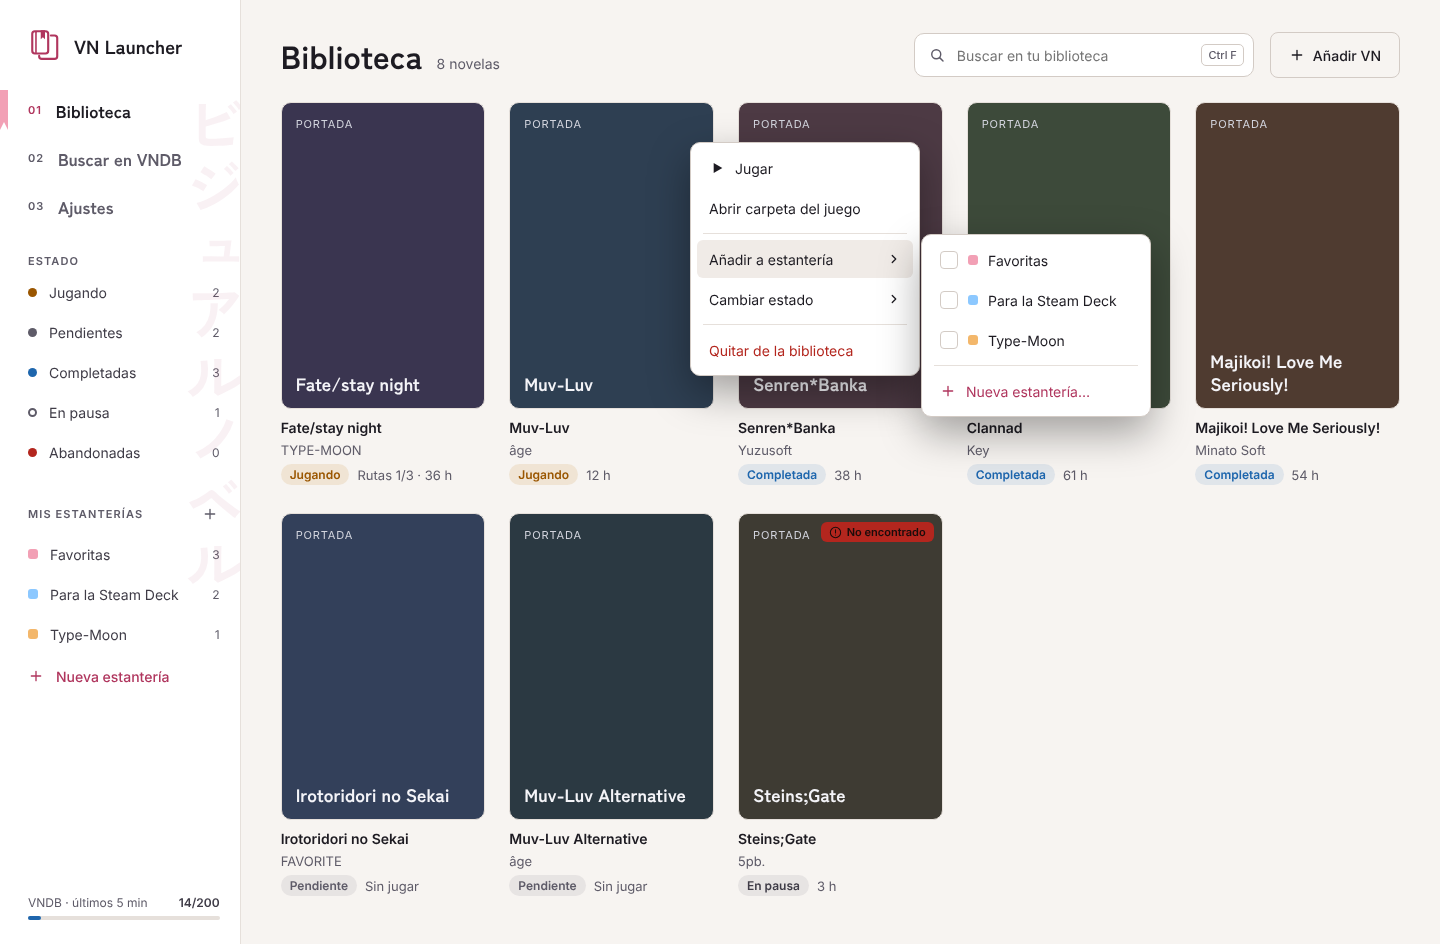
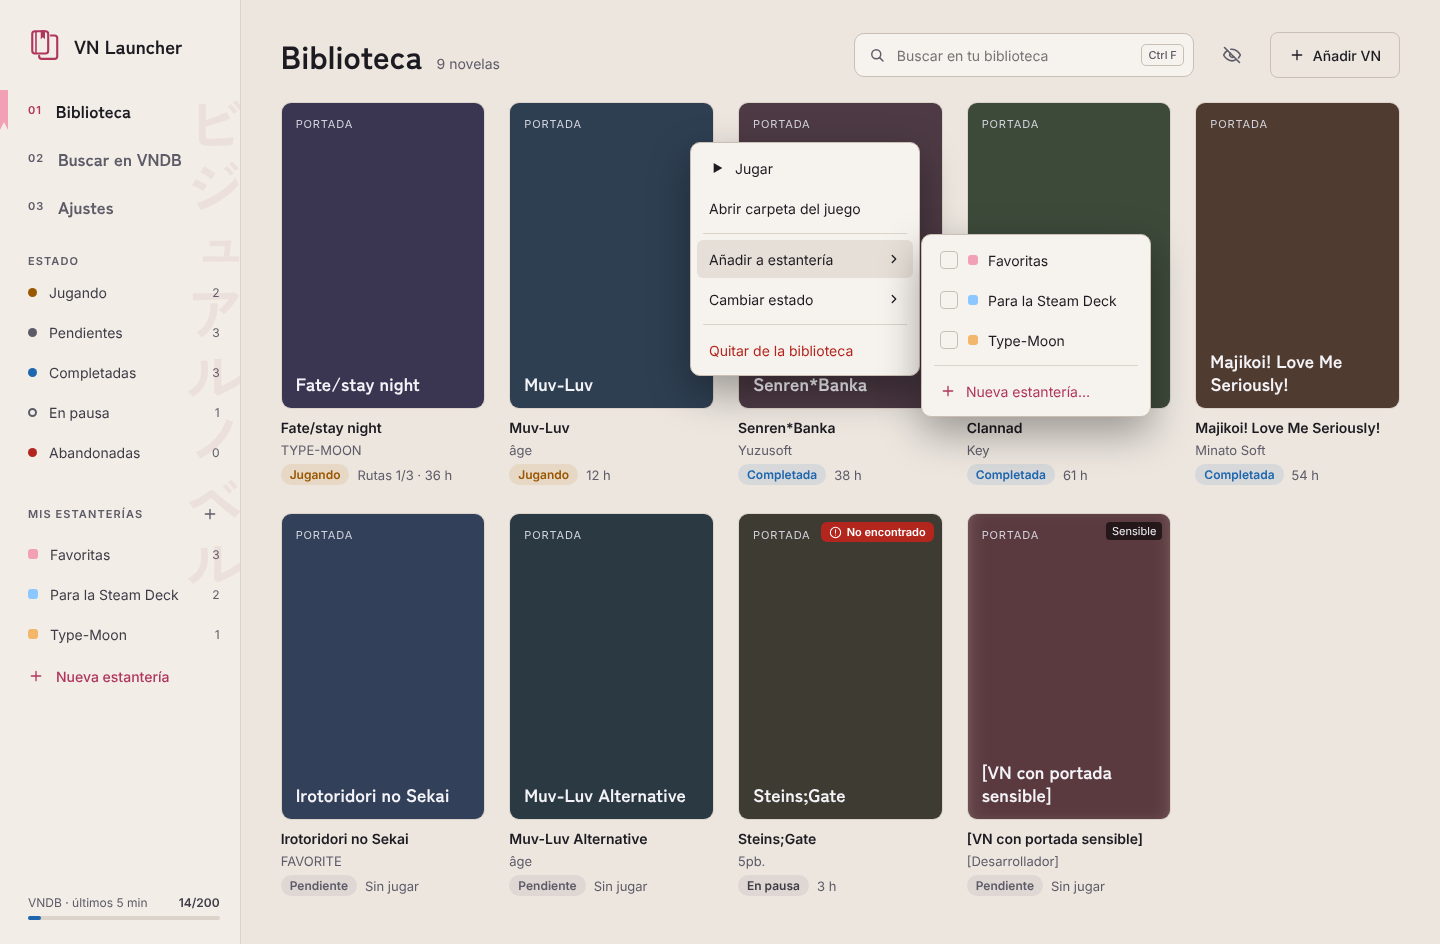
Nuevas capturas y colores del tema claro actualizados actualizados

Changed region(s): [[0.5938, 0.5222, 0.8125, 0.9523], [0.625, 0.0307, 0.75, 0.0922], [0.8125, 0.0307, 0.875, 0.0922]]

diff --git a/src/main/resources/com/vnlauncher/ui/styles.css b/src/main/resources/com/vnlauncher/ui/styles.css
@@ -85,13 +85,13 @@
 }
 
 .root.tema-claro {
-    -vn-bg: #F7F4F1;
-    -vn-side: #FFFFFF;
-    -vn-surface: #FFFFFF;
-    -vn-surface2: #F0EBE7;
-    -vn-sel: #FDF1F4;
-    -vn-border: #E6E0DB;
-    -vn-border2: #D3CBC5;
+    -vn-bg: #ECE6DF;
+    -vn-side: #F2EDE7;
+    -vn-surface: #F6F2ED;
+    -vn-surface2: #E6DFD7;
+    -vn-sel: #F5E6EA;
+    -vn-border: #DCD3CA;
+    -vn-border2: #C9BFB5;
     -vn-text: #1D1B22;
     -vn-text2: #3F3C47;
     -vn-muted: #5E5B68;
@@ -107,12 +107,12 @@
     -vn-grey-bg: rgba(94, 91, 104, 0.10);
     -vn-chip-on-bg: #1D1B22;
     -vn-chip-on-text: #FFFFFF;
-    -vn-track: #E6E0DB;
+    -vn-track: #DCD3CA;
     -vn-watermark: rgba(176, 54, 94, 0.07);
-    -vn-overlay: rgba(247, 244, 241, 0.62);
+    -vn-overlay: rgba(236, 230, 223, 0.62);
     -vn-danger: #B3261E;
     -vn-danger-bg: rgba(179, 38, 30, 0.08);
-    -vn-backdrop: #DCD5D0;
+    -vn-backdrop: #D2CAC2;
     -vn-shadow: rgba(60, 40, 30, 0.22);
     -vn-accent-dim: #F4CAD3;
     -vn-on-accent-dim: #8F6E76;
